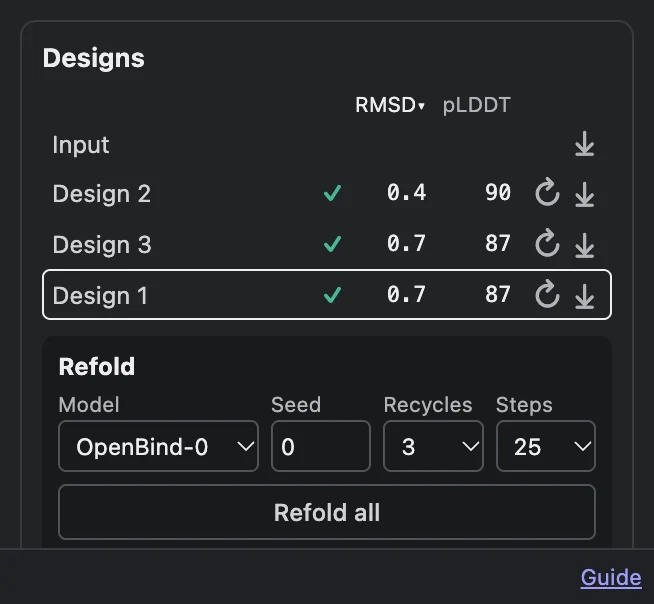
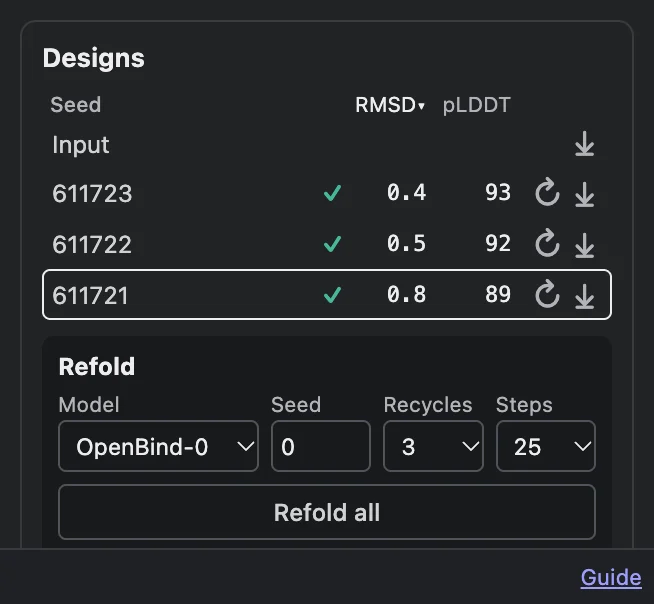
Designs are named by their seed (163509; 163509 (2) when a seed comes twice)

diff --git a/web/app.js b/web/app.js
@@ -1128,7 +1128,8 @@ class Rfd4pStudioApp {
     // One table per run: its own header row over its own rows, so each number sits under its label.
     const busy = Boolean(this.refoldAbort);
     const thead = () => h('thead', {}, h('tr', {},
-      h('th', { class: 'rfd4p-dt-name' }), h('th', { class: 'rfd4p-dt-mark' }),
+      h('th', { class: 'rfd4p-dt-name', title: 'Each design is named by its seed: the same seed and settings make it again', text: 'Seed' }),
+      h('th', { class: 'rfd4p-dt-mark' }),
       ...cols.map((c) => h('th', { class: 'rfd4p-dt-num', title: c.title }, h('button', {
         type: 'button', class: `rfd4p-design-sort${sort?.key === c.key ? ' is-sorted' : ''}`,
         text: `${c.label}${sort?.key === c.key ? (sort.dir === c.dir ? '▾' : '▴') : ''}`,
@@ -1142,11 +1143,11 @@ class Rfd4pStudioApp {
       const isInputRow = v.isInput;
       const cls = [isInputRow ? 'rfd4p-design-input' : '', v.pass === true ? 'rfd4p-design-pass' : '',
         v.pass === false ? 'rfd4p-design-fail' : ''].filter(Boolean).join(' ');
-      const tr = h('tr', { class: cls || null, title: isInputRow ? inputTitle : `seed ${v.seed}` });
+      const tr = h('tr', { class: cls || null, title: isInputRow ? inputTitle : null });
       const radio = h('input', { type: 'radio', name: 'design-view-radio', value: sid });
       radio.checked = sid === this.studioSessionId;
       tr.append(
-        h('td', { class: 'rfd4p-dt-name' }, h('label', {}, radio, h('span', { text: isInputRow ? 'Input' : `Design ${v.designIndex}` }))),
+        h('td', { class: 'rfd4p-dt-name' }, h('label', {}, radio, h('span', { text: isInputRow ? 'Input' : this._designName(v) }))),
         h('td', { class: 'rfd4p-dt-mark', text: v.pass === true ? '✓' : '' }));
       const state = isInputRow ? '' : this.refoldSid === sid ? 'refolding…' : this.refoldQueue?.includes(sid) ? 'queued'
         : v.refoldError ? 'refold failed' : null;
@@ -1156,12 +1157,12 @@ class Rfd4pStudioApp {
       tr.append(h('td', { class: 'rfd4p-dt-act' },
         isInputRow || this.noWebGpu ? null : h('button', {
           type: 'button', class: 'rfd4p-design-act rfd4p-design-refold', text: '↻', disabled: busy,
-          title: v.metrics ? 'Refold this design again' : 'Refold this design', 'aria-label': `Refold Design ${v.designIndex}`,
+          title: v.metrics ? 'Refold this design again' : 'Refold this design', 'aria-label': `Refold seed ${this._designName(v)}`,
           onclick: stop(() => { void this._refoldDesigns([sid]); }),
         }),
         h('button', {
           type: 'button', class: 'rfd4p-design-act', text: '⤓', title: 'Download this structure (CIF)',
-          'aria-label': `Download ${isInputRow ? 'the input' : `Design ${v.designIndex}`}`,
+          'aria-label': `Download ${isInputRow ? 'the input' : `seed ${this._designName(v)}`}`,
           onclick: stop(() => this._downloadText(v.cif, `${v.filenameStem || 'design'}.cif`, 'chemical/x-mmcif')),
         })));
       // Anywhere on the row shows it.
@@ -1179,6 +1180,17 @@ class Rfd4pStudioApp {
     if (this.els.downloadsBox) this.els.downloadsBox.hidden = designs.length < 1;
     this.els.designResultsRow.hidden = designs.length < 1;
     this._syncRefoldUi();
+  }
+
+  /**
+   * A design's name: its seed, which makes it again ("163509"), with the order it was made in when a seed comes twice
+   * ("163509 (2)", a seed kept while a setting changed).
+   */
+  _designName(v) {
+    const same = [...this.generatedViews.values()].filter((x) => !x.isInput && !x.isRefold && x.seed === v.seed)
+      .sort((a, b) => a.designIndex - b.designIndex);
+    const k = same.indexOf(v);
+    return k > 0 ? `${v.seed} (${k + 1})` : String(v.seed);
   }
 
   /** The refold controls: Refold all (Stop while refolds run), and what the refolds are doing. */
@@ -1334,9 +1346,9 @@ class Rfd4pStudioApp {
         this.refoldSid = sid;
         this._renderDesigns();
         const tag = todo.length > 1 ? ` (${k + 1} of ${todo.length})` : '';
-        this._setRefoldStatus(`Refolding Design ${view.designIndex} with ${name}${tag}…`);
+        this._setRefoldStatus(`Refolding seed ${this._designName(view)} with ${name}${tag}…`);
         const ok = await this._refoldOne(sid, model, settings, abort, lf,
-          (text) => this._setRefoldStatus(`Design ${view.designIndex}${tag}: ${text}`));
+          (text) => this._setRefoldStatus(`Seed ${this._designName(view)}${tag}: ${text}`));
         if (ok) done += 1;
         else if (!abort.signal.aborted) failed += 1;
       }
@@ -1382,7 +1394,7 @@ class Rfd4pStudioApp {
     } catch (err) {
       if (abort.signal.aborted) return false;
       view.refoldError = true;
-      console.error(`Refold of Design ${view.designIndex} failed:`, err);
+      console.error(`Refold of seed ${this._designName(view)} failed:`, err);
       return false;
     }
   }
@@ -1673,14 +1685,14 @@ class Rfd4pStudioApp {
           UNIFIED_ATOM37_TOKENS,
         );
         const designIndex = (this.designCounter = (this.designCounter ?? 0) + 1);
-        const designName = `design-${designIndex}.cif`;
+        const designName = `seed-${sampleSeed}.cif`;
         const { sessionId: designSessionId } = store.createSession(result.cif, designName, {
           trajectoryCif,
         });
         markHotspots(store.getSession(designSessionId), hotspotResidueKeys(atoms));
         const designed = designedChains(atoms, result.structure?.atoms ?? []);
         this.generatedViews.set(designSessionId, {
-          label: `Design ${designIndex} · seed ${sampleSeed}`,
+          label: `seed ${sampleSeed}`,
           cif: result.cif,
           pdb: result.pdb,
           isInput: false,

diff --git a/help/index.html b/help/index.html
@@ -169,7 +169,7 @@
     back exactly as given.</p>
 
   <h2 id="designs">Designs</h2>
-  <p>Every design is a row; click one to see it, or Input to go back to editing. Generate again with the input unchanged
+  <p>Every design is a row, named by its seed (the same seed and settings make it again); click one to see it, or Input to go back to editing. Generate again with the input unchanged
     and the new designs join the list; change the input and the next Generate starts a new list (save what you want to
     keep first).</p>
   <ul>
@@ -181,7 +181,7 @@
     <li><span class="ui">Save all (.zip)</span>: the input, every design with its trajectory, every refold, and the table as
       <code>summary.csv</code>.</li>
   </ul>
-  <figure class="narrow"><img src="img/designs.webp" alt="Three designs refolded and ranked in the Designs table" loading="lazy"><figcaption>Three designs from scratch, refolded and ranked: Design 1 passes (✓); the others are greyed out.</figcaption></figure>
+  <figure class="narrow"><img src="img/designs.webp" alt="Three designs refolded and ranked in the Designs table" loading="lazy"><figcaption>Three designs from scratch, each named by its seed, refolded and ranked; designs that pass carry a ✓, the others are greyed out.</figcaption></figure>
   <div class="table-wrap"><table>
     <tr><th>Column</th><th>Meaning</th><th>Better</th></tr>
     <tr><td>RMSD</td><td>Å between the design and its refold. For a binder or antibody, after fitting on the target, so where it sits counts.</td><td>lower</td></tr>

diff --git a/index.html b/index.html
@@ -38,7 +38,7 @@
           "./shared/rfd4p/presets.js": "./shared/rfd4p/presets.js?v=8db26644f7",
           "./shared/rfd4p/safetensors.js": "./shared/rfd4p/safetensors.js?v=816ee6d627",
           "./shared/rfd4p/vendor/fzstd.js": "./shared/rfd4p/vendor/fzstd.js?v=e6cdba40d4",
-          "./web/app.js": "./web/app.js?v=5ce7a21845",
+          "./web/app.js": "./web/app.js?v=d54d88b5b3",
           "./web/design-panel.js": "./web/design-panel.js?v=fc42f3e448",
           "./web/design-spec.js": "./web/design-spec.js?v=5b8999f1bb",
           "./web/guide-dialog.js": "./web/guide-dialog.js?v=df4c3ca412",
@@ -59,7 +59,7 @@
       }
     </script>
     <!-- module-versions:end -->
-    <script type="module" src="./web/app.js?v=5ce7a21845"></script>
+    <script type="module" src="./web/app.js?v=d54d88b5b3"></script>
     <script type="module" crossorigin src="./assets/index-H6K66f49.js"></script>
     <link rel="stylesheet" crossorigin href="./assets/index-CTn3vkIg.css">
   </head>

diff --git a/AGENTS.md b/AGENTS.md
@@ -24,7 +24,7 @@ Operational guide for coding agents working in `rfd4p` (WebGPU implementation of
    - `web/design-spec.js` (pure: task, chain roles, lengths and contig read from a document's conditions; tested in `test/design-spec.test.js`) and `web/design-panel.js` (start screen, Design panel, guided set-ups, simple/advanced switch). The panel lists each chain piece by piece in contig order (`designSpec(...).chains[].pieces`): `kept` (with a keep mode from `KEEP_MODES`: all, sequence, backbone, side chains, shape only; `anywhere` when unindexed; `source` when a set-up renumbered it), `designed` (in place) and `new` (a length range). Chains are grouped by where their coordinates come from (`_sourceGroups`: "PDB 1QJG", "PDB 5O45 chain A", "Nanobody (VHH) example"), one muted caption per source; clicking a caption opens the + pdb form to replace that source's chains; chains are listed in the job's order (the sequence bar's, which is the order they were added), chains made here (+ seq, + lig) uncaptioned in place. Each piece is a sub-card in its chain (chain letter on the left; the chain's × there once it has more than one item), residues (or a new piece's length) on the left and its state on the right ("A17–131 · fixed · 3 hotspots", "H99–109 · designed", "50–120 · new"), its own × to remove it; a "+" between sub-cards (not next to new residues) inserts 5–10 new residues there. Every option in the popups is fixed or free (free: the model decides; the internal values stay 'designed' and 'anywhere'), and every list ends with "free", Shape, Exposure, Interaction and Fold included; a ligand's pose is its Structure too. A residue popup (a sub-card's, or residues picked in the viewer or the sequence bar) shows, in front, its residue range (a sub-card's), Structure (fixed, rigid, free) with the Atoms it holds (all, backbone, side chains, or named: "CG, OD1"), Sequence (fixed, free) and Position in chain (fixed, free: an unindexed residue), with Structure and Sequence both free Length in Position's place, and a sub-card's Hotspots, the rest under More (`_moreFold`: Shape, Exposure, Interaction, and a sub-card's Keep only); there are no one-click buttons (they set four things at once and could not say "structure fixed, sequence free"). A sub-card's click also selects its residues in Studio while its popup is open (`_selectFromCard`, not the viewer's popup). A sub-card's Residues take one range or several ("1–40, 60–115"); once narrowed, Rest says what happens to the piece's residues outside them (removed, the default; free; unchanged, for changing part of a piece), the gaps between ranges are free, and Between gives them a length range, turning each into new residues (so a fetched chain is cut to a domain, or to two regions with a variable linker, in one popup); a Length other than the residue count turns them into new residues (`/segments/replace`), and the document remembers the residues they replaced (`segmentOrigins`, this page only; `segmentOrigin`, `restoreSegment`, `/segments/restore`; `test/segment-restore.test.js`): the new-residues popup then shows "was 7" beside Length and a Structure and Sequence, and the old count, or a fixed or rigid Structure or a fixed Sequence, brings them back in place with their coordinates and conditions, in one Undo; with partial diffusion ticked, its warning about new residues offers the same for all of them ("Back to the residues they replaced"), since partial diffusion starts from coordinates. A piece of a loaded chain has a crop bar under its Residues (`_cropBar`): the chain as it was loaded (`chainSources`, kept by a plain structure's `StudioDoc` and carried by `combine` and a chain rename; `sourceResidues`), the piece's ranges on it, the chain's other residues muted, a handle at each end; dragging in crops (Rest), dragging out brings residues back, up to the neighbouring piece and never past new residues (`restoreFromSource`, `/residues/restore`: as loaded, then given the popup's settings, those in gaps free). It only edits the Residues field, so typing a range past the piece does the same. As the ranges change (dragged or typed), the structure previews them (`_previewCut`): residues to be cut nearly vanish (`setHighlight('cut', …)`), those to be freed fade as free ones do, and only the residues kept stay selected; closing the popup clears it. Opening a sub-card's popup also brings its residues to the middle of the view, the zoom kept (`centerOn`, fork 12c2b78). During a run and on a finished design, the held coordinates of a motif are drawn as a grey reference (`buildMotifOverlayAtoms`, `motifSideChainAtoms`): residues placed anywhere always, residues held in place only when they are a quarter of their chain or less (`isSmallMotif`: 1QJG's three, not a kept domain extended by new residues, which would only be drawn twice). Residues the model rebuilds (no atom held, not rigid) are faded in the input structure (`setHighlight('free', …, { transparency })`, fork f7a02ee), except with partial diffusion ticked, where they are its starting point. Hotspots (the chain's, from any of its pieces; a residue may name its atoms, "A56(CG,OH)", `parseResidueList`) and, under More, Keep only (the motif set-up, `/segments/scaffold`; the residues are kept in the order typed, "A38, A14, A99" reorders the motif and renumbers the chain as AtomWorks does, `_orderMotif`, each kept residue keeping its source ("A38", `annotation_src-component_1_atom`, display only: the pipeline rewrites it) so the card still names it by the entry; the kept residues take the popup's properties, so trimming an antibody chain and making it "rigid" is one popup). "Rigid" is one rigid group per source structure (`/internal-coords` `group_id`, `_rigidGroup(chain)`: chains from the same entry share a body), so an antibody's heavy and light frameworks keep their pairing and move as one, as upstream's current antibody example (Studio 0.0.6, MZB1/adalimumab Fv) and the model repo's VHH inputs are set (the Oct 19 example the demo Space ships had them as two bodies, since replaced), a framework split by CDRs moves as one, and chains from different entries move apart, and its saved targets are cleared (`/internal-coords/clear-targets`): the pipeline centres the body and turns it at random when the job is built (`materializeInternalCoords`), as AtomWorks does and the bundled examples are saved. A residue fixed "anywhere" with only some atoms held keeps only those atoms' coordinates, held atoms first in the residue (`/coordinates/clear`; a token is read from its first atom), as an enzyme benchmark's catalytic tips are given. Residues can be brought back from their source entry next to their neighbours (`/residues/insert`, `insertResiduesFrom`: one Undo, peptide and new-residue bonds rebuilt, an ordered motif's chain renumbered; `test/residue-insert.test.js`); nothing in the card uses it yet (a residue strip did, and was taken out for now). The chain letter opens the chain's popup: its name (`/chains`), its place in the job (`/chains/order`), which the model reads (chain and molecule ids, noise draws), and a fold for it (CATH, `cath_label`, `_foldField`: the chain popup's labels the whole chain, the new-residues popup's only those new residues, so one chain can hold domains of different folds, 6MRR kept and a β-barrel built onto it; a new block shows its fold, "β-barrel · new"; named folds such as ferredoxin-like 3.30.70, Rossmann-like 3.40.50, helix bundle 1.10, or any code; a new chain's is set on its new residues, which each take it; also in the new-residues popup, where a new chain is laid out). Superposition (`superimposeCoords3D`) is a rotation, never a reflection (`test/handedness.test.js`): it used to mirror whenever its eigenvectors came out left-handed, and a design with nothing held in place, aligned onto its first (noise) frame, was then shown as its mirror image, every helix left-handed, about half the time; the model's own estimate was right-handed throughout. A residue placed anywhere is read against all its atoms (`heldAtomsOf`, `allHeavyNames`), since only its held atoms keep coordinates, so its row names them ("A250 CG, OD1 fixed · position free"); a glycine joins a named-atoms or side-chain run it sits in, and an interaction is asked of each residue's side chain, or its CA when it has none. Under More, residues can also be asked a Shape (secondary structure: helix, strand, loop), an Exposure (RASA: buried, intermediate, exposed) and an Interaction their side chains (or the atoms named) should make (H-bond donor/acceptor, salt bridge, π-stacking, π-cation, hydrophobic, metal-coordinating) (`_extraFields`); new residues take Shape and Exposure. These were Advanced-editor only; pieces split where they differ and rows name them ("A20–30 designed · helix"). Residues selected in the viewer or the sequence bar open a shorter popup for the selection (`_renderPop`): Structure and Sequence ("mixed" where the selected pieces differ, left as each piece has it), Length for one free stretch, Hotspot and Include checkboxes (unticked, the selection is taken out of the job on Apply) and a ligand's Structure, with Atoms, Position, Shape, Exposure and Interaction under More (a pick shows little at first), so fixed regions are grown, shrunk, freed or cut from the structure itself (a motif by hand: pick the residues around it, Structure and Sequence free, a Length); several pieces change in one edit (`_applyPieces`), one Undo. Ligands: Structure fixed or free, swap. New residues: Length, Shape, Exposure and the chain's Fold. More folds only four rows or more; fewer are shown as they are (`_moreFold`). Popups close with the × in their title (top right; a viewer pick's also lets go of the selection), Escape or a click outside, and move by their title bar (`_movable`): once moved, every popup opens where the last was left, kept on screen, until a reload (`popSpot`); Apply sits at the bottom, always in sight. A "+" sits between any two pieces and at both ends, new residues included, so a free chain is built as blocks of different lengths and shapes (20 helix · 6 loop · 20 strand). New residues inserted inside a chain do not renumber it: with no numbering gap the placeholder takes the residue before's number plus an insertion code (`insertSegment`, "40A"), and `realizeExpandableSegments` numbers past it, so the batch and the design are numbered exactly as the old renumber-the-rest rule made them (`test/insert-numbering.test.js`). A design therefore numbers residues after an insertion further along than the input; hotspots on designs are matched through each sample's batch atoms for that reason. A binder's target stays as loaded, fixed, as the original demo example has it (turning it into upstream's documented binder set-up, backbone rigid with sequence fixed, on + seq or + pdb was tried and taken back at the owner's call; the popup's rigid + backbone does it by hand). A rigid residue counts as held when roles are read, so a rigid target still reads "Binder design". Thinking sits above Generate and defaults to none, for speed (upstream's default is medium, `inference.yaml`; about 3x the passes). A plain structure (PDB ID, optionally with the chains to keep, "1J79 A C E"; a file; "+ pdb") opens with everything fixed, without buffer ions (NA, CL, on top of AtomWorks' additive list) and with its ligands' formal charges from the CCD (RCSB entries list their components' atoms without charges, `componentsNeedingCcd`); a prepared document drops the file's text (`rawCif`), so its CIF, for the viewer and for a run, is the prepared one from the first frame (`StudioDoc`, rcsb preset; `test/fetch-defaults.test.js`), so a set-up starts from what was loaded and marks what to design; Keep only takes the popup's Structure, Atoms and Position (CG, OD1 + anywhere is an enzyme site), and ticking partial diffusion with nothing designed frees every chain. "Blueprint" draws a ferredoxin-like fold as blocks (β 6 · loop 3 · α 14 · loop 3 · β 6 · loop 3 · β 6 · loop 3 · α 14 · loop 3 · β 6) from the bundled empty chain (`start`, `blocks` steps; no download); a design follows it (helix blocks Cα i→i+3 5.1 Å and right-handed, strands 10 Å). The start screen starts a job from its parts with the design view's own row, + seq (a free chain of 60–100, from the bundled empty chain), + pdb (the PDB ID / file form) and + lig (a ligand by its code), each opening a new document (`_startNew`), and under it the Examples (a heading, not a question: nothing there has to be picked). Start-screen examples are recipes (`TASKS[].recipe`): each fetches its PDB entry (5O45, 1XVA, 1QJG, 1J79, 1N8Z, 4Z18 + 3EAK, 2KL8, in label numbering; an entry's chains come from its first biological assembly that has them, `_openEntry`) and reproduces the bundled Studio example of the same name in everything the model reads (batch features compared tensor by tensor; the motif is identical, the antibody too but for two deliberate changes, its heavy and light chains one rigid body and their fold Ig-like (CATH 2.60.40, recipe `{ chain, fold }`), as upstream's examples now are; both 2KL8 examples keep residues 1–79 (all of it but the His tag), where the bundled file drops 8–27, a bug in it; the rest differ only where the bundled file's coordinates did not come from the deposited entry: the binder's rebuilt side chains, the SAM conformer, the nanobody framework's saved orientation, and 0.001 Å rounding in the enzyme) and builds the set-up with the card's own controls in a session Studio does not show (`_buildRecipe`: `buildSession`, whose edits go straight to `handleStudioApiRequest`, so the viewer is not redrawn per step; popups hidden by `body.rfd4p-building`), then opens it once, finished, with no Undo history; offline, the bundled Studio example opens instead ("Protein from scratch" always does). Source captions read "PDB 5O45 · A" (entry and its chains in the job; the entry's `_struct.title` when pointed at). Designs and live frames are put back in the input's frame (the pipeline centres the conditioned coordinates for the model and records `center_shift`; `processSampleToAtoms` adds it back after aligning), so a fetched target does not jump when a run starts. During a run the hotspot highlight follows the job's numbering (`app.liveHotspotKeys`, res_id past any new residues), since live frames are numbered that way, and the viewer repaints it on every live frame (fork: Mol* keeps paint as atom positions, and a frame's designed residues change atom count from step to step, so paint carried over slid onto other residues; the viewer's `data-highlight-residues` says what is painted). Otherwise hotspots are highlighted in the viewer by `auth_seq_id`, which is how the document's CIF numbers residues for Mol* (a fetched entry keeps its authors' numbering there; `res_id` is the label numbering). There are no separate guided set-ups; partial diffusion is a line under the run settings' More settings, which open whenever it is turned on, so it is never on out of sight (one control: the checkbox and its noise %, 40% by default, `partial_trajectory_fraction_steps` 0.4 as upstream's Space runs its partial-diffusion example). A job whose every chain keeps its backbone with its sequence free (the card's "Redesign sequence", `task.key === 'inverse'`) runs the inverse-folding sampler (`resampled_forward_marginal`), as the Space does for that task (`generation=inverse_folding`): the backbone comes back as given (Cα within 0.02 Å), only sequence and side chains sampled. The encoder treats an atom without coordinates (a side chain an entry did not resolve) as absent (`encoderSeqFeatures`), or its NaN reached every latent and partial diffusion of such an entry (6MRR) gave a design with no atoms. Hotspots are a chip on a kept piece (`parseResidueList` / `formatResidueList`). Ligands are added ("+ lig") or swapped (a ligand's Edit menu) by their CCD code: `web/ligand-ccd.js` turns the dictionary entry's ideal coordinates into a one-residue mmCIF, merged in with its pose free. "+ seq", "+ pdb" and "+ lig" add a designed chain, chains from a PDB entry or file, or a ligand; merged in as kept chains through `/combine` (a source caption replaces that source instead), so an example is edited the same way a set-up is built from scratch. The panel edits documents only through `window.__rfd4pMutate`, so Undo and Studio refreshes work as for Studio's own edits.
    - AtomWorks Studio is **not vendored**. `studio.json` pins the release; `npm run build:studio` downloads that bundle, verifies its sha256, copies it into `assets/` and composes `index.html` from Studio's own page plus the two fragments this repo owns (`web/page/head.html`, `web/page/card.html`). Never hand-edit `assets/` or `index.html` — both are build output. Live frames, overlays, sessions, edits, the selection, chain colours and live mode go through Studio's documented embedding API, `window.atomworksStudio`. To try an unreleased Studio: `npm run build:studio -- --from <path-to-bundle>`. **Right now the site runs an unreleased Studio**: `studio.json` `override` names the commit (sokrypton/atomworks-studio `live-frame-cartoon`: cartoon overlays, RosettaCommons/atomworks-studio#29, live frames drawn as cartoon plus ligands, `setHighlight`, which the panel uses to colour hotspots in the target's own cartoon, Show/Hide sequence in the viewer toolbar with no sequence-dock heading, `setSelection`, and residue picking by default with a clicked residue shown on its own: Mol*'s focus without its 5 Å surroundings, interactions or camera jump, and following the selection, so deselecting leaves no sticks behind (whole residues selected are only outlined on the cartoon; atoms picked show their residues in sticks, c17a919), and `closeDocument`, which Clear uses to empty the viewer and the sequence without a reload or a confirmation, keeping the session for Back, and `setHighlight` with a `transparency`, which fades residues instead of colouring them, and `centerOn`, which pans the view to atoms), and `build:studio` refuses a plain release rebuild until `override` is removed after a release contains it.
    - Guide: `help/index.html` is this site's guide (start, the card, pieces, picking, chains, colours, running, Designs, examples, words), a page of its own and, through `web/guide-dialog.js`, a popup over the designer (the card's Guide button and the footer's Guide link); Studio's own guide stays at `guide/`, linked from it. Its screenshots (`help/img/*.webp`) come from `node tools/guide-shots.mjs [scene]` (headless Chrome over its DevTools protocol, each scene set up through the page; `designs` runs the model and an OpenBind-0 refold). Change the guide, and retake the shots, when the interface changes.
-   - Designs (`web/app.js` `_renderDesigns`): every design of the runs on the current input is a row of one table (one list: Input, then the designs; Generate again with the input unchanged (same session, same revision) and the new designs join it, numbered on; after an edit, or from another input, the next Generate starts it over; the card is in three bordered sections, the design, Run and Designs, the Refold box tinted inside Designs), each with ⟳ (refold it) and ⤓ (its CIF); clicking a row shows it. While a run goes, the Generate button is its progress (Stop · design k of n · step s/60, filling up) and the status line under it is for what is not progress. The Refold box (below the tables) holds model, seed, recycles (3, LocalFold's own default; before LocalFold e002fec4 refoldDesign passed none, so refolds ran with 0) and diffusion steps (25). Refold all (or Stop) refolds every design not yet refolded with exactly those settings (the refold's own seed, 0 by default; another seed samples the fold again, each refold keeping its seed for the zip), one after another, rows saying queued / refolding… and filling in: RMSD, pLDDT, and for an interface ipTM and min iPAE (`refoldMetrics`: the min iPAE from the refold's PAE, polymer tokens first in file order as LocalFold reads them, `polymerChains`; the RMSD of a binder or antibody is upstream's target-aligned one, from the refold's per-residue `deviations`, which LocalFold measures after fitting on every other chain). A ✓ marks designs that meet the model's own pass criteria (`PASS_CRITERIA`, from RFD4-Proteina `configs/metrics/pass_criteria`: monomer, binder, antibody; motif, enzyme and small-molecule jobs get numbers but no verdict, as they also need motif and ligand RMSDs not computed here), failing rows are greyed, and rows rank passing first by the job's first criterion (`rankKey`) until a column head is clicked. Save all (.zip) carries every run, with the same numbers in summary.csv (`web/results-zip.js`).
+   - Designs (`web/app.js` `_renderDesigns`): every design of the runs on the current input is a row of one table (one list: Input, then the designs, each named by its seed, `_designName`, "163509 (2)" when a seed comes twice; Generate again with the input unchanged (same session, same revision) and the new designs join it, numbered on; after an edit, or from another input, the next Generate starts it over; the card is in three bordered sections, the design, Run and Designs, the Refold box tinted inside Designs), each with ⟳ (refold it) and ⤓ (its CIF); clicking a row shows it. While a run goes, the Generate button is its progress (Stop · design k of n · step s/60, filling up) and the status line under it is for what is not progress. The Refold box (below the tables) holds model, seed, recycles (3, LocalFold's own default; before LocalFold e002fec4 refoldDesign passed none, so refolds ran with 0) and diffusion steps (25). Refold all (or Stop) refolds every design not yet refolded with exactly those settings (the refold's own seed, 0 by default; another seed samples the fold again, each refold keeping its seed for the zip), one after another, rows saying queued / refolding… and filling in: RMSD, pLDDT, and for an interface ipTM and min iPAE (`refoldMetrics`: the min iPAE from the refold's PAE, polymer tokens first in file order as LocalFold reads them, `polymerChains`; the RMSD of a binder or antibody is upstream's target-aligned one, from the refold's per-residue `deviations`, which LocalFold measures after fitting on every other chain). A ✓ marks designs that meet the model's own pass criteria (`PASS_CRITERIA`, from RFD4-Proteina `configs/metrics/pass_criteria`: monomer, binder, antibody; motif, enzyme and small-molecule jobs get numbers but no verdict, as they also need motif and ligand RMSDs not computed here), failing rows are greyed, and rows rank passing first by the job's first criterion (`rankKey`) until a column head is clicked. Save all (.zip) carries every run, with the same numbers in summary.csv (`web/results-zip.js`).
    - Refold (`web/refold-view.js`): LocalFold's `refoldDesign` refolds the design's sequence with AlphaFold 3 (the default) or OpenBind-0 (kept chains as templates), and the refold's designed chains are overlaid as a magenta backbone trace on the design (no separate refold view). That code is **vendored, not written here**: `localfold.json` pins a `sokrypton/localfold` commit, and `npm run sync:localfold [<commit>]` copies the import closure of its entries into `vendor/localfold-<commit>/` (the commit in the path is the cache-busting) and rewrites `web/localfold.js`. Never edit `vendor/`; fix LocalFold and re-sync. AlphaFold 3's parameters are Google DeepMind's (non-commercial, prohibited-use policy), so the page asks once per browser before using them and offers OpenBind-0 (Apache 2.0) instead.
    - Cache-busting: `index.html` carries an import map pinning every module under `web/`, `shared/`, `webgpu/`, `cpu/` to `?v=<content hash>` (plus the `app.js` / `styles.css` tags). Run `npm run stamp` after editing any of them (`build:studio` runs it too), or browsers can mix new and cached modules for up to 10 minutes after a deploy.
    - Chain colours come from Studio's shared palette, keyed by chain id; the design panel reads it through `window.atomworksStudio.chainColor`. The palette (fork) is cool colours only, thirteen of them: amber is the hotspots' (`--rfd4p-hotspot`) and magenta the refold's, so neither is ever a chain's, and H, L and T fall on three different colours. Selection is one look everywhere: an outline in the text colour, no tint (fork 912934c: Mol*'s select and hover marking in the foreground colour, white on black and near-black on white, hover fainter; the sequence bar's selected residues outlined, keeping their colours, a run of them one box, fork c8d0b8c), and a sub-card holding selected residues outlined the same (`_markSelected`), so chain colours, hotspots (amber), free (accent) and the fades all still show under a selection.
